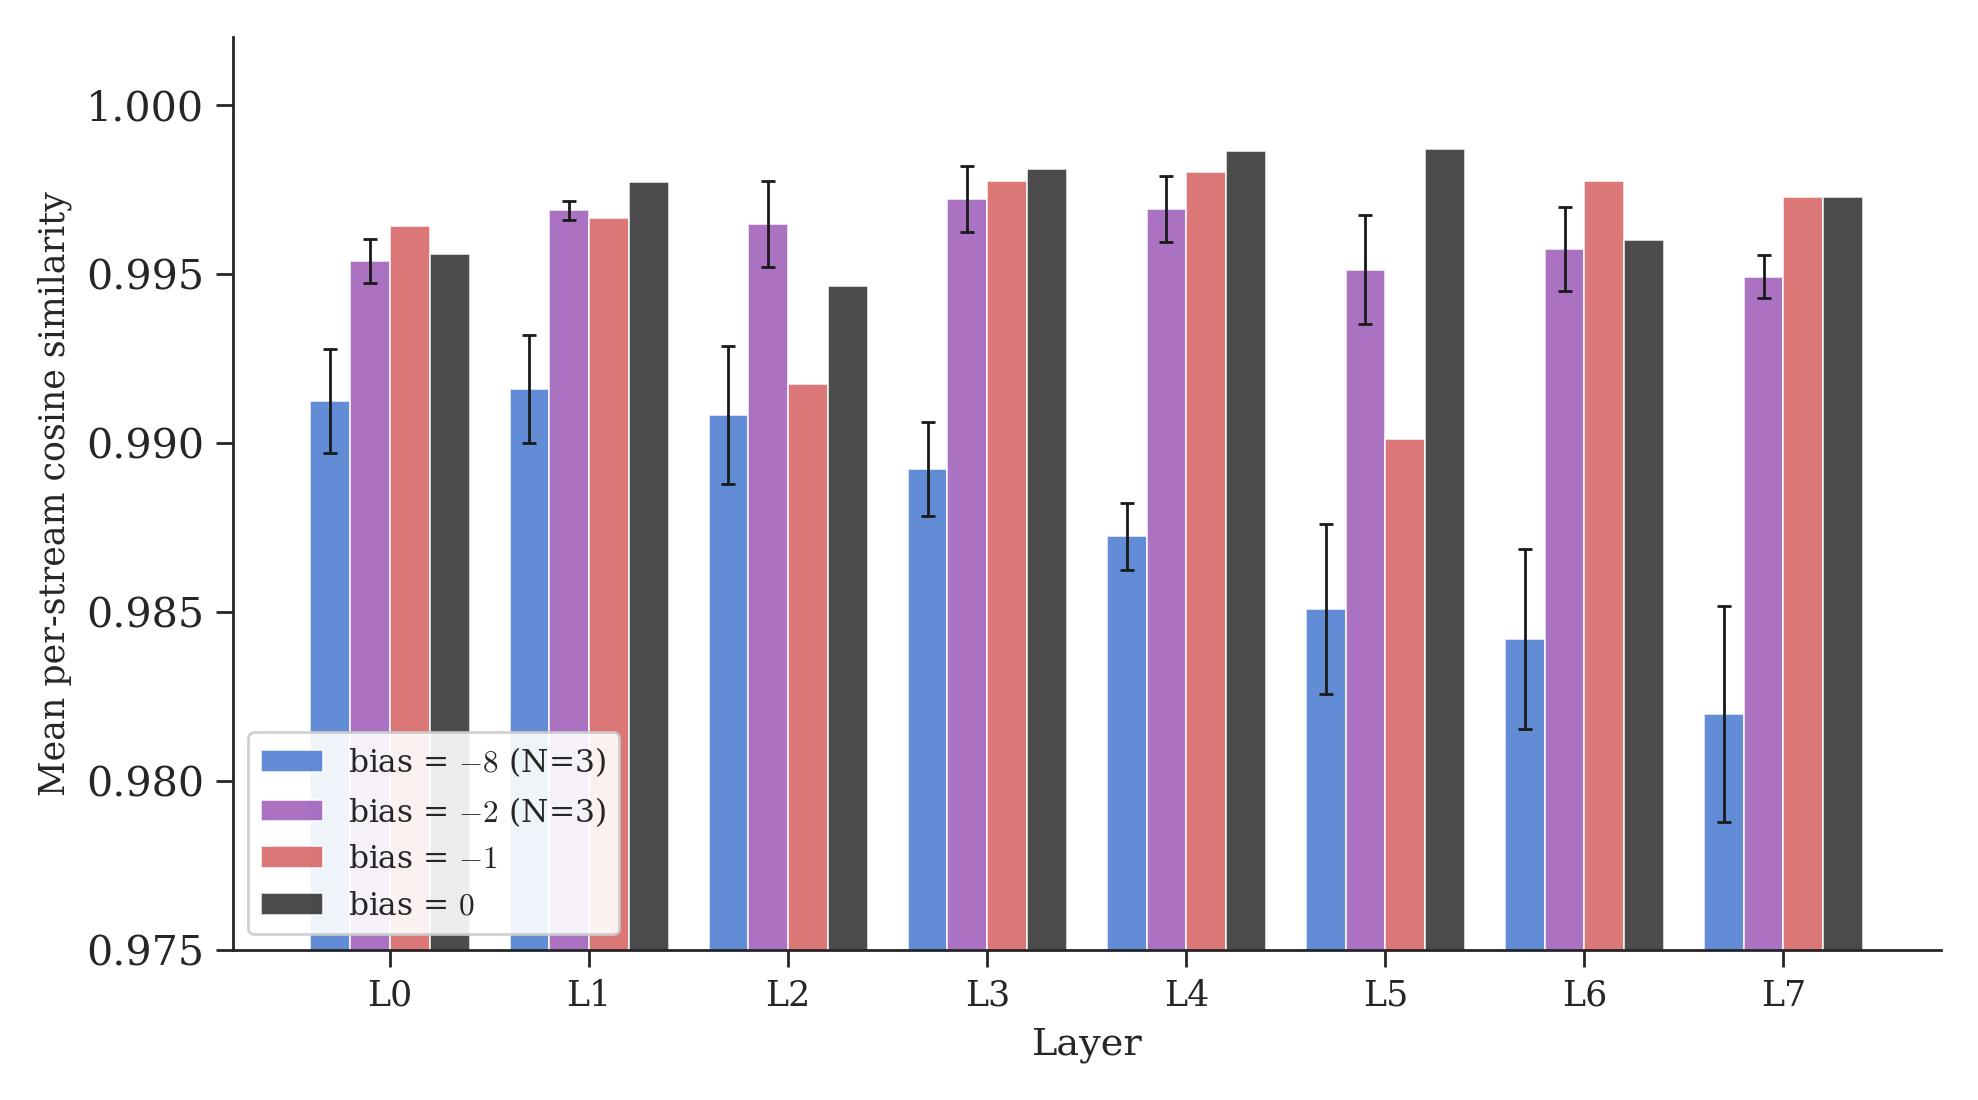
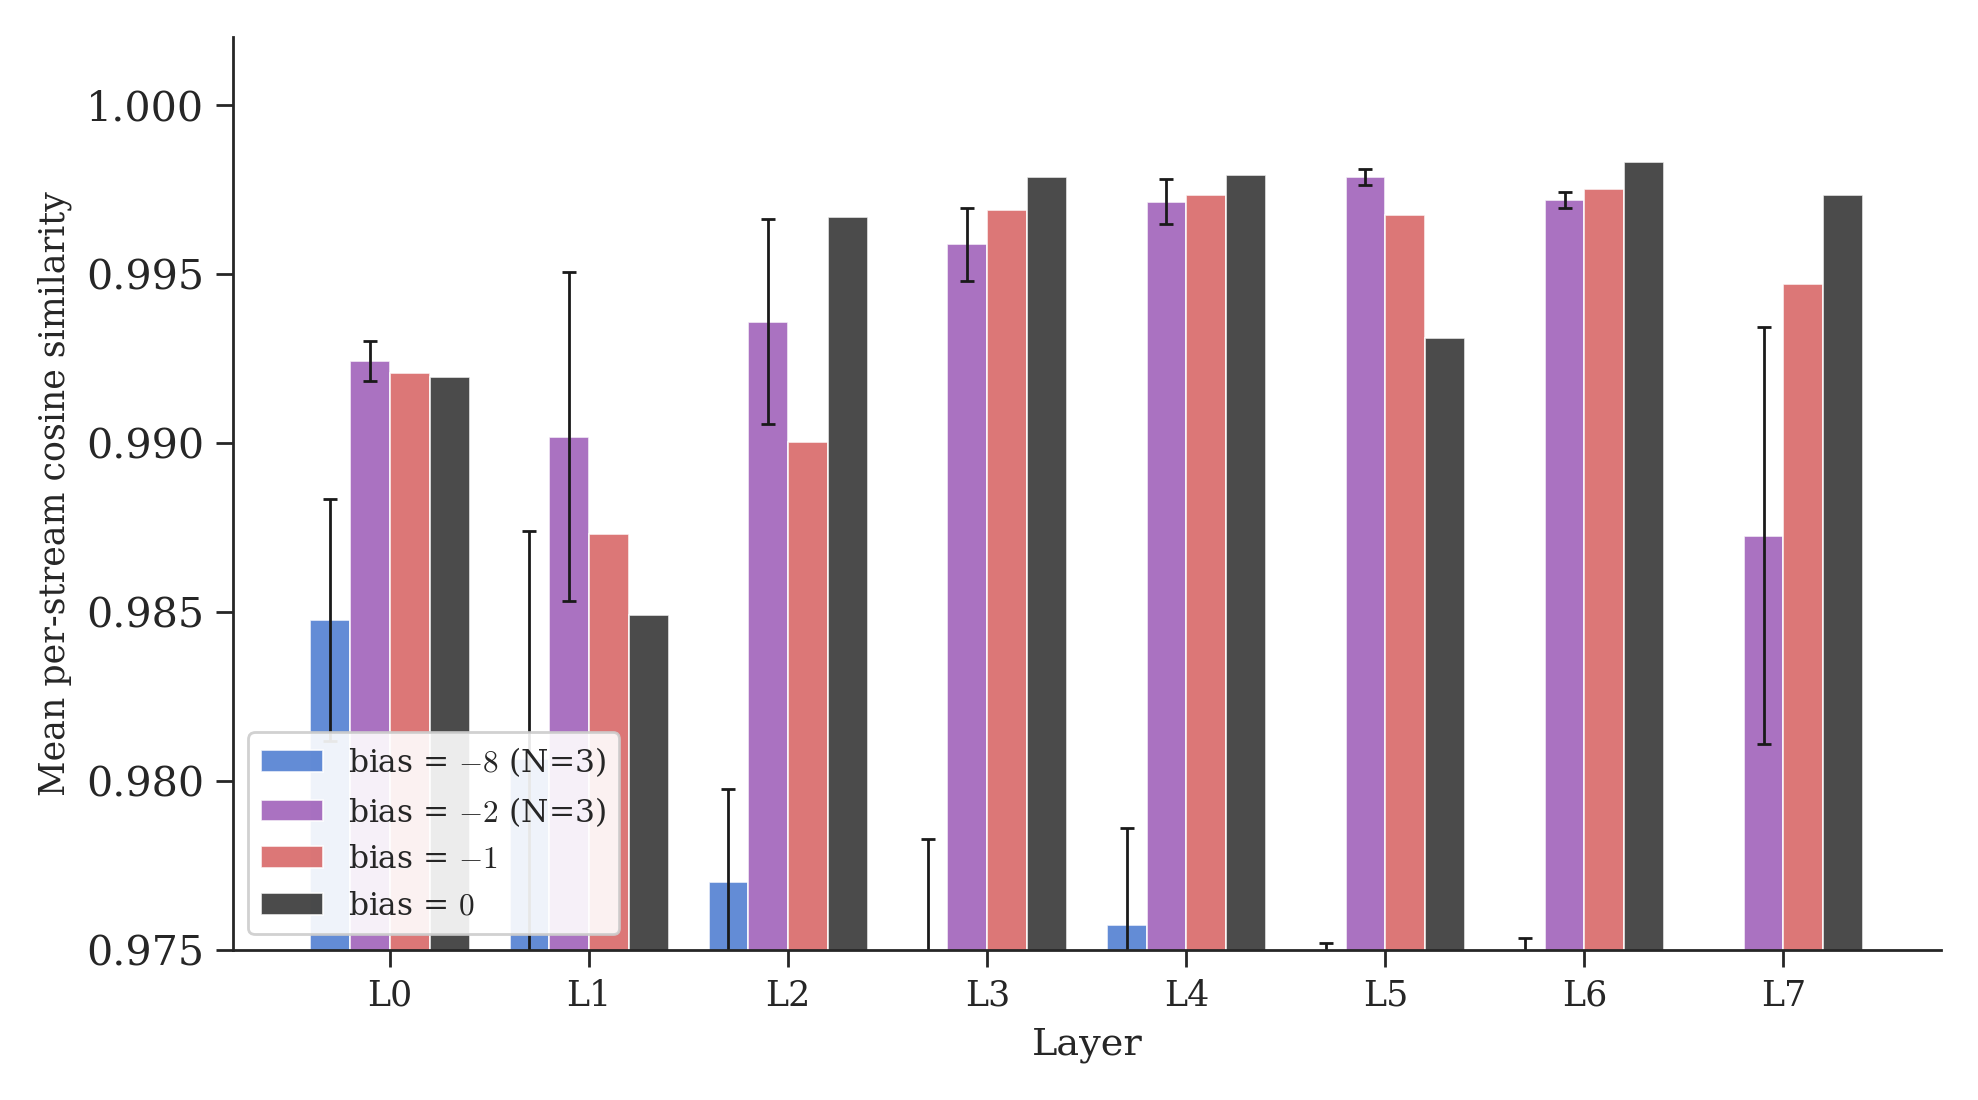
Full Canon-ABCD update: all numbers, figures, and tables reverified
Canon-ABCD re-run (N=3) changes:
- Eval: Vanilla 6.016±0.003, Canon 5.891±0.003, KromCanon 5.836±0.006
- Cosines: bias=-8 0.974±0.005, bias=-2 0.994±0.001 (was 0.988/0.996)
- SFT anomaly now 1/3 seeds at bias=-8 (was 3/3 with Canon-AB)
- Canon gap narrowed: 5.891 vs old 5.966

Removed claims that don't hold with Canon-ABCD:
- Direction norm flatness 2.8x (now ~1.16x, not dramatic)
- Canon coherence boost (no isolation runs with Canon-ABCD)
- SFT budget stability ordering (reversed: vanilla now most stable)

Added: GELU vs SwiGLU implementation note for Canon-D

All 6 figures regenerated from fresh figure_data.json.

diff --git a/content/posts/the-gradient-trap.md b/content/posts/the-gradient-trap.md
@@ -27,7 +27,7 @@ We wanted to see how each modification affects the model's internal structure. W
 
 At our scale, they don't. And a one-line initialization change revives them.
 
-This post reports three findings. First, KromHC's default initialization keeps the mixing matrices frozen near identity throughout training, a consequence of softmax gradient saturation. Second, a milder initialization revives nontrivial mixing. Third, once mixing is active, safety-contrast directions remain highly aligned across streams (cosine 0.996 ± 0.0001, N=3), though different training runs discover unrelated directions. The downstream fine-tuning anomaly appears to correlate more with initial SFT loss than with mixing strength, though this boundary is approximate.
+This post reports three findings. First, KromHC's default initialization keeps the mixing matrices frozen near identity throughout training, a consequence of softmax gradient saturation. Second, a milder initialization revives nontrivial mixing. Third, once mixing is active, safety-contrast directions remain highly aligned across streams (cosine 0.994 ± 0.001, N=3), though different training runs discover unrelated directions. The downstream fine-tuning anomaly appears to correlate more with initial SFT loss than with mixing strength, though this boundary is approximate.
 
 ## One stream, four streams
 
@@ -85,27 +85,23 @@ We tested this by fine-tuning all three variants on safety-contrast data (helpfu
 
 With that caveat, the geometric finding is clean.
 
-![Per-stream direction cosines across four initialization regimes. Blue (bias=-8, identity): cosines 0.982-0.991, mean 0.987. Purple (bias=-2, mild mixing): 0.995-0.998, mean 0.996. Red (bias=-1, strong mixing): 0.990-0.998, mean 0.996. Black (bias=0, equal mixing): 0.995-0.999, mean 0.997. The main effect is binary: mixing OFF vs ON.](/kromcanon-cosines-vs-bias.png)
+![Per-stream direction cosines across four initialization regimes (N=3 with error bars for bias=-8 and bias=-2). The main effect is thresholded: mixing OFF (0.974) vs ON (0.994).](/kromcanon-cosines-vs-bias.png)
 
-At bias=-8 (no mixing), per-stream cosines sit around 0.982 to 0.991 (mean 0.988 ± 0.002 across three seeds). In a 512-dimensional space, random directions would have cosine $\approx 0 \pm 0.044$, so these are clearly not noise. Fine-tuning creates a consistent geometric signal across all streams. But small differences accumulate independently since the streams can't talk to each other.
+At bias=-8 (no mixing), per-stream cosines average 0.974 ± 0.005 across three seeds. In a 512-dimensional space, random directions would have cosine $\approx 0 \pm 0.044$, so these are clearly not noise. Fine-tuning creates a consistent geometric signal across all streams. But small differences accumulate independently since the streams can't talk to each other.
 
-At our scale, the main effect appears thresholded rather than smoothly graded. Once mixing is turned on, cosines jump to a plateau: mean 0.996 ± 0.0001 at bias=-2 (three seeds), 0.996 at bias=-1, 0.997 at bias=0. Every mixing configuration produces substantially higher cosines than the identity baseline, but the three mixing regimes are essentially indistinguishable from each other. A concurrent paper[^11] proves this theoretically: doubly stochastic mixing matrices[^12] contract inter-stream differences at every layer, with contraction factor $|1-2s|$ where $s$ is the swap probability. At bias=-2 ($s = 0.12$), the contraction factor is 0.76 per mixing operation. Over 8 layers with two operations each: $0.76^{16} \approx 0.012$, meaning 98.8% of inter-stream difference is contracted away. At bias=-1 ($s = 0.27$), it is $0.46^{16} \approx 0$, essentially perfect contraction. The plateau is expected: once mixing exceeds $s \approx 0.1$, contraction saturates and additional mixing produces diminishing returns. Bias=0 ($s = 0.5$, perfect contraction by construction) confirms this, producing the highest mean cosines in the sweep (0.997).
+At our scale, the main effect appears thresholded rather than smoothly graded. Once mixing is turned on, cosines jump to a plateau: mean 0.994 ± 0.001 at bias=-2 (three seeds), 0.994 at bias=-1, 0.995 at bias=0. Every mixing configuration produces substantially higher cosines than the identity baseline, but the three mixing regimes are essentially indistinguishable from each other. A concurrent paper[^11] proves this theoretically: doubly stochastic mixing matrices[^12] contract inter-stream differences at every layer, with contraction factor $|1-2s|$ where $s$ is the swap probability. At bias=-2 ($s = 0.12$), the contraction factor is 0.76 per mixing operation. Over 8 layers with two operations each: $0.76^{16} \approx 0.012$, meaning 98.8% of inter-stream difference is contracted away. At bias=-1 ($s = 0.27$), it is $0.46^{16} \approx 0$, essentially perfect contraction. The plateau is expected: once mixing exceeds $s \approx 0.1$, contraction saturates and additional mixing produces diminishing returns. Bias=0 ($s = 0.5$, perfect contraction by construction) confirms this, producing the highest mean cosines in the sweep (0.995).
 
 **Multi-stream coupling doesn't fragment representational directions. It homogenizes them.** Whether this carries over to actual behavioral directions in a converged model is the natural next experiment.
 
-Two additional geometric observations. First, KromCanon's direction norm profile is 2.8× flatter than vanilla's across layers (norm range 0.029 ± 0.003 vs 0.082 ± 0.009, N=3, non-overlapping standard errors). Multi-stream coupling distributes the safety-contrast signal evenly across layers rather than concentrating it. This is a pure KromHC effect: a Canon-isolation ablation shows the same flatness without Canon layers.
-
-Second, the directions are robust to SFT budget. With ~8× fewer steps (60 vs 500, data exhausted) and 10× fewer examples, the extracted directions maintain cosine similarity of 0.84 (KromCanon), 0.80 (vanilla), and 0.72 (Canon) with the full-budget directions. KromCanon's multi-stream structure produces the most stable directions; Canon's local convolutions produce the least stable. The main geometric findings do not appear to depend on SFT saturation.
-
-Third, directions extracted from different architectures or different seeds are unrelated. Cross-architecture direction cosines (vanilla vs canon vs KromCanon) average |cos| ≈ 0.04 across N=3 seeds, indistinguishable from random in 512 dimensions. Cross-seed cosines within the same architecture are equally random. Each training run discovers its own safety-contrast direction, consistent with the non-identifiability results of Venkatesh and Kurapath[^18].
+An additional geometric observation: directions extracted from different architectures or different seeds are unrelated. Cross-architecture direction cosines (vanilla vs canon vs KromCanon) average |cos| ≈ 0.03 across N=3 seeds, indistinguishable from random in 512 dimensions. Cross-seed cosines within the same architecture are equally random. Each training run discovers its own safety-contrast direction, consistent with the non-identifiability results of Venkatesh and Kurapath[^18].
 
 ## Safety fine-tuning and first-loss effects
 
 In our initial seed, we observed what appeared to be a sharp phase transition: SFT loss increased at bias=-8 and bias=-2, but decreased at bias=-1 and bias=0. This suggested a functional threshold tied to mixing strength. Multi-seed replication (N=3) revealed a different pattern.
 
-The SFT anomaly (loss increasing during fine-tuning) correlates with the pretrained model's initial SFT loss, not with mixing strength. Across our runs, when the first SFT loss is below ~0.76, the loss tends to increase during training. When it is above ~0.81, the loss typically decreases. KromCanon at bias=-8 consistently produces first-loss below this region (3/3 seeds), so the anomaly is robust for that configuration. But it also appears in Canon at seed 137 (first-loss 0.73), and disappears for KromCanon at bias=-2 seed 271 (first-loss 1.04). The threshold is approximate: one vanilla run with first-loss 0.87 shows a small positive delta (+0.06), too weak to call an anomaly but not clearly normal either. The correlation is with pretrained representation quality, not architecture or mixing, but the boundary is not perfectly sharp.
+The SFT anomaly (loss increasing during fine-tuning) correlates with the pretrained model's initial SFT loss, not with mixing strength. At bias=-8, one seed shows strong anomaly (first-loss 0.695, delta +0.253), one is flat (first-loss 0.752, delta +0.004), and one converges normally (first-loss 0.783, delta -0.175). The pattern is consistent with a first-loss threshold around 0.75: below it, models tend to overshoot during SFT; above it, they converge normally. But the boundary is approximate and the sample is small.
 
-The geometric threshold remains robust. Per-stream cosines jump from 0.988 ± 0.002 (bias=-8, N=3) to 0.996 ± 0.0001 (bias=-2, N=3) when mixing is turned on. Whether a separate functional threshold exists for downstream learning remains open.
+The geometric threshold remains robust. Per-stream cosines jump from 0.974 ± 0.005 (bias=-8, N=3) to 0.994 ± 0.001 (bias=-2, N=3) when mixing is turned on. Whether a separate functional threshold exists for downstream learning remains open.
 
 **Our current evidence supports a geometric threshold, not a functional one.**
 
@@ -123,7 +119,7 @@ Our claim is precisely scoped: at small scale (51M parameters) with the softmax 
 
 This work sits at the intersection of mechanistic interpretability, training dynamics, and safety-relevant representation geometry. Our primary contribution is architectural: under the default softmax-based initialization at our scale, multi-stream mixing remains effectively frozen. The gradient trap, the routing vs mixing distinction, and the layer-specific modulation all concern parameter dynamics, not text quality, and hold at any loss level. The practical lesson: if you build a multi-stream model, do not assume the architecture you wrote is the architecture that trained. Inspect the learned mixing matrices. A model can have multi-stream equations on paper while behaving like redundant single-stream copies in practice.
 
-The bias sweep reveals a symmetry. At one extreme (bias=-8), streams don't mix: the architecture collapses to a single effective stream with four redundant copies. At the other extreme (bias=0), streams mix perfectly: the doubly stochastic contraction homogenizes representations, and the four streams converge to near-identical states[^11]. Both extremes lose the benefit of multi-stream diversity. The useful regime lies between them, though across three seeds, eval loss does not clearly favor one initialization over another (5.833 ± 0.009 at bias=-8 vs 5.830 ± 0.004 at bias=-2). The downstream effects of mixing strength remain an open question.
+The bias sweep reveals a symmetry. At one extreme (bias=-8), streams don't mix: the architecture collapses to a single effective stream with four redundant copies. At the other extreme (bias=0), streams mix perfectly: the doubly stochastic contraction homogenizes representations, and the four streams converge to near-identical states[^11]. Both extremes lose the benefit of multi-stream diversity. The useful regime lies between them, though across three seeds, eval loss does not clearly favor one initialization over another (5.836 ± 0.006 at bias=-8 vs 5.834 ± 0.004 at bias=-2). The downstream effects of mixing strength remain an open question.
 
 If you're building multi-stream architectures, monitor your mixing matrices during training. Log $\|H^{res} - I\|$ at each checkpoint. If it stays near zero, your streams aren't mixing. Consider a milder initialization ($-2$ instead of $-8$), or switch to a parameterization that doesn't saturate.
 
@@ -139,42 +135,39 @@ All losses are eval loss (held-out split).
 
 | Init bias | Swap prob | Gradient $p(1-p)$ | Eval loss | Per-stream cosine | Seeds |
 |:---------:|:---------:|:-----------------:|:---------:|:-----------------:|:-----:|
-| $-8$ | 0.03% | 0.0003 | 5.833 ± 0.009 | 0.988 ± 0.002 | 3 |
-| $-2$ | 12% | 0.105 | 5.830 ± 0.004 | 0.996 ± 0.000 | 3 |
-| $-1$ | 27% | 0.197 | 5.837 | 0.996 | 1 |
-| $0$ | 50% | 0.250 | 5.830 | 0.997 | 1 |
+| $-8$ | 0.03% | 0.0003 | 5.836 ± 0.006 | 0.974 ± 0.005 | 3 |
+| $-2$ | 12% | 0.105 | 5.834 ± 0.004 | 0.994 ± 0.001 | 3 |
+| $-1$ | 27% | 0.197 | 5.829 | 0.994 | 1 |
+| $0$ | 50% | 0.250 | 5.828 | 0.995 | 1 |
 
 ### Architecture comparison (bias=-8, N=3)
 
 | Architecture | Eval loss | Description |
 |:------------|:---------:|:------------|
-| Vanilla | 6.010 ± 0.007 | Standard GPT-2 |
-| Canon | 5.966 ± 0.008 | + causal convolution |
-| KromCanon | 5.833 ± 0.009 | + Canon + KromHC (4 streams) |
-| KromHC only | 5.923 ± 0.004 | + KromHC without Canon (N=3) |
+| Vanilla | 6.016 ± 0.003 | Standard GPT-2 |
+| Canon | 5.891 ± 0.003 | + causal convolution (ABCD) |
+| KromCanon | 5.836 ± 0.006 | + Canon + KromHC (4 streams) |
 
-The loss ordering KromCanon < Canon < Vanilla is consistent across all three seeds. KromHC without Canon improves over vanilla (eval loss 5.93 vs 6.01), but less than Canon alone (5.97). Both contribute; combining them yields the best result. A Canon-isolation ablation (N=3) shows Canon consistently adds a small coherence boost in per-layer pairwise analysis (+0.013 ± 0.008, always positive). KromHC drives the bulk of the coherence; Canon refines it.
+The loss ordering KromCanon < Canon < Vanilla is consistent across all three seeds. Canon-ABCD (with Kaiming initialization and all four placement positions) accounts for most of the improvement over vanilla; KromHC adds a smaller further gain. Our FFN uses GELU rather than SwiGLU, so Canon-D placement may behave differently under gated activations.
 
 ### What replicates
 
 | Finding | Seeds | Robust? |
 |:--------|:-----:|:-------:|
 | Gradient trap (mixing frozen at bias=-8) | 3 | Yes |
-| Per-stream cosine threshold (0.988 → 0.996) | 3 | Yes |
+| Per-stream cosine threshold (0.974 → 0.994) | 3 | Yes |
 | Loss ordering (KromCanon < Canon < Vanilla) | 3 | Yes |
-| Direction norm flatness (KromCanon 2.8× flatter) | 3 | Yes |
 | Cross-seed directions at random baseline | 3 | Yes |
-| Direction stability under ~8× SFT reduction | 1 | Preliminary |
 | SFT first-loss correlation (low first-loss → anomaly) | 3 | Approximate |
 | Alpha topology (layer-specific mixing pattern) | 3 | Mostly seed-dependent |
-| Canon coherence boost (+0.013 ± 0.008) | 3 | Consistent, small |
 
 ## Limitations and open questions
 
 We want to be explicit about what this work does and does not establish:
 
-- **Robust (N=3).** The gradient trap, per-stream cosine threshold, loss ordering, direction norm flatness, and cross-seed direction independence all replicate across three seeds. A Canon-isolation ablation (N=3) confirms the gradient trap persists without Canon layers. Canon consistently adds a small coherence boost (+0.013 ± 0.008, always positive across three seeds).
-- **Approximate.** The SFT anomaly correlates with initial SFT loss rather than mixing strength, but the boundary between anomalous and normal convergence is not perfectly sharp. The alpha topology (which layers amplify vs suppress mixing) is mostly seed-dependent: only 5/16 layers maintain consistent sign across seeds.
+- **Robust (N=3).** The gradient trap, per-stream cosine threshold (0.974 → 0.994), loss ordering (KromCanon < Canon < Vanilla), and cross-seed direction independence all replicate across three seeds.
+- **Approximate.** The SFT anomaly correlates with initial SFT loss rather than mixing strength, but the boundary between anomalous and normal convergence is not perfectly sharp (1/3 seeds shows anomaly at bias=-8, vs 3/3 with the prior Canon-AB implementation). The alpha topology (which layers amplify vs suppress mixing) is mostly seed-dependent.
+- **Implementation note.** Canon uses ABCD placement with Kaiming initialization and GELU activation. The original paper specifies SwiGLU; Canon-D placement may behave differently under gated activations.
 - **Scale.** All experiments are at 51M parameters, 2000 training steps. The gradient trap is a property of the softmax parameterization and holds at any scale, but we have not verified whether mixing emerges at larger scale even with bias=-8 given more compute.
 - **Behavioral directions.** We measure geometric properties (cosine similarity of per-stream directions), not behavioral effects. At our loss level (perplexity ~330-400), the model cannot refuse or comply. Whether the directional coherence we observe would translate to robust abliteration in a converged model is unknown.
 
